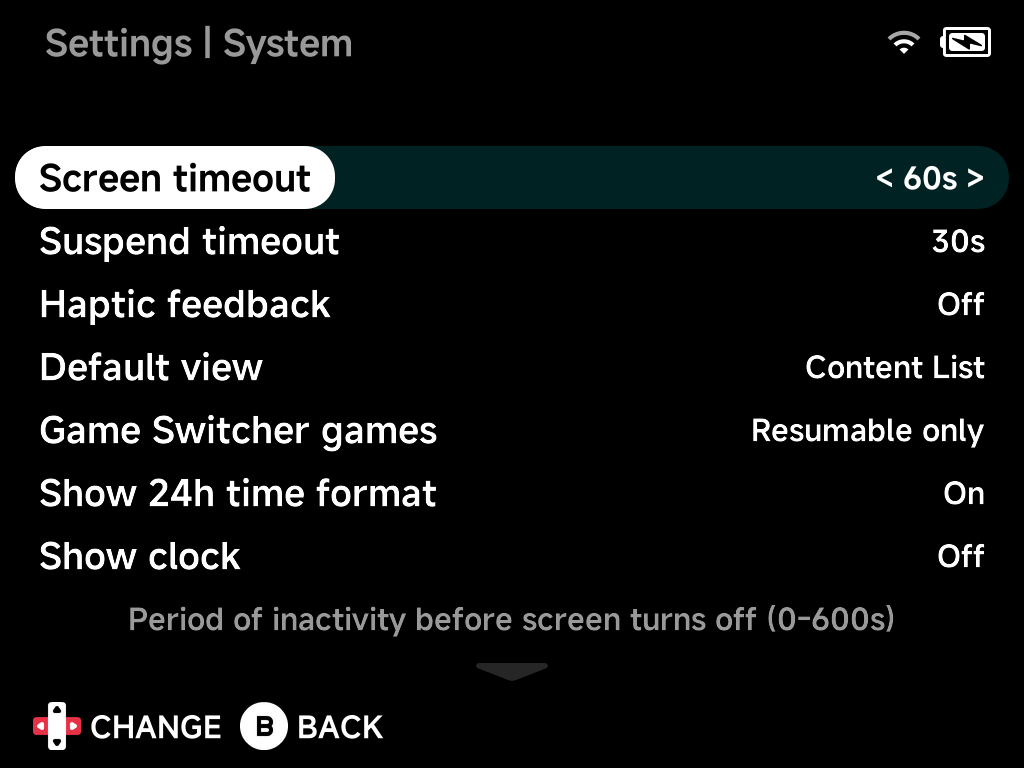
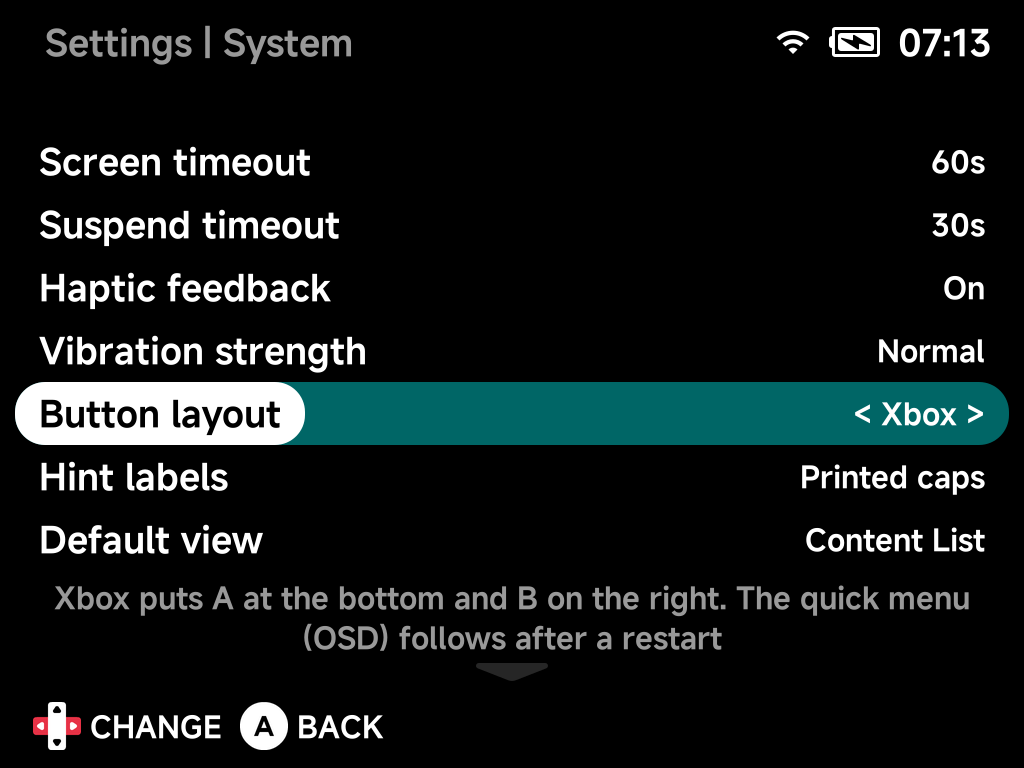
docs(guide): document the Nintendo/Xbox button layout setting

Changed region(s): [[0.0, 0.1875, 1.0, 0.8438], [0.75, 0.0312, 0.9688, 0.0938], [0.25, 0.9375, 0.2812, 0.9688]]

diff --git a/docs/guide/button-layout.md b/docs/guide/button-layout.md
@@ -1,0 +1,81 @@
+# Button Layout
+
+The face buttons on every supported device are printed in the Nintendo
+arrangement: `A` on the right, `B` at the bottom, `X` on top, `Y` on the
+left. If you are used to the Xbox arrangement — confirm at the bottom, back
+on the right — NX Redux can swap them for you, everywhere at once.
+
+![Button layout in Settings](../assets/screenshots/set-system.png)
+
+## Switching to the Xbox layout
+
+Open **Settings → System → Button layout** and pick `Xbox`. From then on:
+
+- the **bottom** button is `A` (confirm) and the **right** button is `B`
+  (back);
+- the **top** button is `Y` and the **left** button is `X`.
+
+Every other button keeps its place. `Nintendo` is the default.
+
+The change applies as soon as you leave Settings — in the menus, the apps,
+the in-game menu and every emulator. The one exception is the
+[On-Screen Display](osd.md), which only picks the new layout up after a
+restart, so restart once and the whole device agrees.
+
+!!! note "Where the swap applies"
+    The swap is a device-wide setting, not a per-emulator one. It covers the
+    menus and every app, the in-game menu, all libretro cores (their button
+    remapping screens included), the standalone Nintendo DS, Nintendo 64 and
+    Dreamcast emulators together with their in-game overlays, PortMaster
+    ports, and the On-Screen Display. If a game's controls feel wrong after a
+    change, quit it and start it again — emulators read the layout when they
+    launch.
+
+## Hint labels
+
+The button hints at the bottom of every screen name the button to press.
+When the Xbox layout is on, **Settings → System → Hint labels** decides which
+letter they show:
+
+- **Printed caps** (default) — the hint shows the letter printed on the cap
+  you actually press. The confirm hint reads `B`, because the bottom cap is
+  printed `B`.
+
+  ![Hints showing the printed caps](../assets/screenshots/button-layout-hints-caps.png)
+
+- **Layout letters** — the hint shows the button's role, so the confirm hint
+  reads `A` even though you press the bottom cap. Pick this if you have
+  physically swapped the caps, or simply think in Xbox terms.
+
+  ![Hints showing the layout letters](../assets/screenshots/button-layout-hints-letters.png)
+
+This setting changes only what the hints say, never what the buttons do, and
+it takes effect immediately — the hint bar in Settings updates as you toggle
+it. It has no effect while the layout is `Nintendo`.
+
+!!! tip "Swap the caps for a seamless switch"
+    The face-button caps on these devices are removable. If you move them
+    into the Xbox arrangement (`A` bottom, `B` right, `X` left, `Y` top), the
+    device reads like an Xbox controller: the letters you see are the
+    letters the games use. Do that together with `Button layout` = `Xbox`
+    **and** `Hint labels` = `Layout letters` — the default `Printed caps`
+    assumes the caps are still in the Nintendo arrangement, so with swapped
+    caps it would show the wrong letters.
+
+## Checking the result
+
+Open **Settings → Input Tester**. The button circles are drawn where the
+buttons are on the device, so under the Xbox layout the bottom circle lights
+up when you press the bottom button and is labelled the way your hints are.
+
+![Input Tester under the Xbox layout](../assets/screenshots/set-input-tester-xbox.png)
+
+## Good to know
+
+- Libretro button remaps you save in a game's **Controls** screen are stored
+  by role (`A`, `B`, …), so they keep working when you change the layout —
+  only the letters shown on that screen follow the hint-label setting.
+- The Settings app keeps the layout it started with until you leave it, so
+  the buttons never swap under your thumb mid-session.
+- PortMaster no longer has a layout switch of its own; ports follow this
+  setting.

diff --git a/docs/settings/system.md b/docs/settings/system.md
@@ -33,6 +33,20 @@ feel it straight away. Game rumble is often brief and partial (cartridge
 rumble emulation), so `Strong` makes those bursts hit nearly as hard as a
 full one, while `Light` tones everything down.
 
+## Button layout
+
+`Nintendo` (default) or `Xbox`. `Xbox` puts `A` at the bottom and `B` on the
+right (and `Y` on top, `X` on the left) everywhere — menus, apps, every
+emulator and PortMaster. Applies as soon as you leave Settings; only the
+On-Screen Display waits for a restart. See [Button Layout](../guide/button-layout.md).
+
+## Hint labels
+
+Shown only while the layout is `Xbox`. `Printed caps` (default) makes the
+button hints show the letter printed on the cap you press; `Layout letters`
+makes them show the button's role instead (`A` for confirm, whichever cap
+that is). Takes effect immediately, including in Settings itself.
+
 ## Default view
 
 The initial view to show on boot — the content list or the

diff --git a/docs/reference/faq.md b/docs/reference/faq.md
@@ -52,6 +52,14 @@ root of your SD card and boot. Bundled emulator and tool paks update
 automatically either way. See
 [Getting Started](../getting-started.md#updating).
 
+## Can I use the Xbox button arrangement (confirm at the bottom)?
+
+Yes. **Settings → System → Button layout → Xbox** swaps `A`/`B` and `X`/`Y`
+everywhere — menus, apps, every emulator and PortMaster. Restart once so the
+On-Screen Display follows too. The button hints can show either the letters
+printed on the caps or the buttons' roles; see
+[Button Layout](../guide/button-layout.md).
+
 ## Bluetooth is flaky, or I want the stock Bluetooth stack back
 
 A full release zip upgrades the device's Bluetooth stack on first boot (see

diff --git a/docs/apps/portmaster.md b/docs/apps/portmaster.md
@@ -7,13 +7,9 @@ core NX Redux install: install it on-device from the
 
 ## Launching
 
-Opening **Tools → PortMaster** shows a small launcher first:
-
-![PortMaster pak menu](../assets/screenshots/portmaster-pak.png)
-
-- **Open PortMaster** — launch the full PortMaster interface.
-- **Button Layout** — `Nintendo` by default; switch it here if you prefer
-  the other layout.
+Opening **Tools → PortMaster** launches the PortMaster interface directly.
+Ports, and PortMaster itself, follow the device-wide
+[Button Layout](../guide/button-layout.md) setting (**Settings → System**).
 
 ## Installing ports
 

diff --git a/docs/settings/input-tester.md b/docs/settings/input-tester.md
@@ -10,6 +10,12 @@ shown with live position indicators:
 
 ![Input Tester on Smart Pro S](../assets/screenshots/set-input-tester-tsps.png)
 
+The circles are drawn where the buttons sit on the device. Under the Xbox
+[Button Layout](../guide/button-layout.md) the bottom circle is the one that
+lights when you press the bottom button, labelled the way your hints are:
+
+![Input Tester under the Xbox layout](../assets/screenshots/set-input-tester-xbox.png)
+
 ## Joystick calibration
 
 On devices with analog sticks (Smart Pro, Smart Pro S, Brick Pro), press

diff --git a/docs/emulators/nintendo-ds.md b/docs/emulators/nintendo-ds.md
@@ -6,7 +6,10 @@ Nintendo DS games run on a bundled **Drastic** emulator. Put your ROMs in
 ## Controls
 
 The face buttons, D-pad, shoulders, `START` and `SELECT` map to the DS as you
-would expect. On top of that:
+would expect, and follow the device-wide
+[Button Layout](../guide/button-layout.md) setting — under the Xbox layout
+the bottom button is the DS `A`, in games and in the Drastic menu alike. On
+top of that:
 
 | Button | Action |
 |--------|--------|

diff --git a/docs/guide/shortcuts.md b/docs/guide/shortcuts.md
@@ -34,6 +34,9 @@ depend on the switch.
 
 ## In the menus
 
+`A` confirms and `B` goes back. Prefer confirm at the bottom? See
+[Button Layout](button-layout.md).
+
 - `SELECT` — open the [Game Switcher](game-switcher.md).
 - `START` — at the top level of the main menu, open **Search**.
 - `X` — resume the highlighted game from where you last left off.
